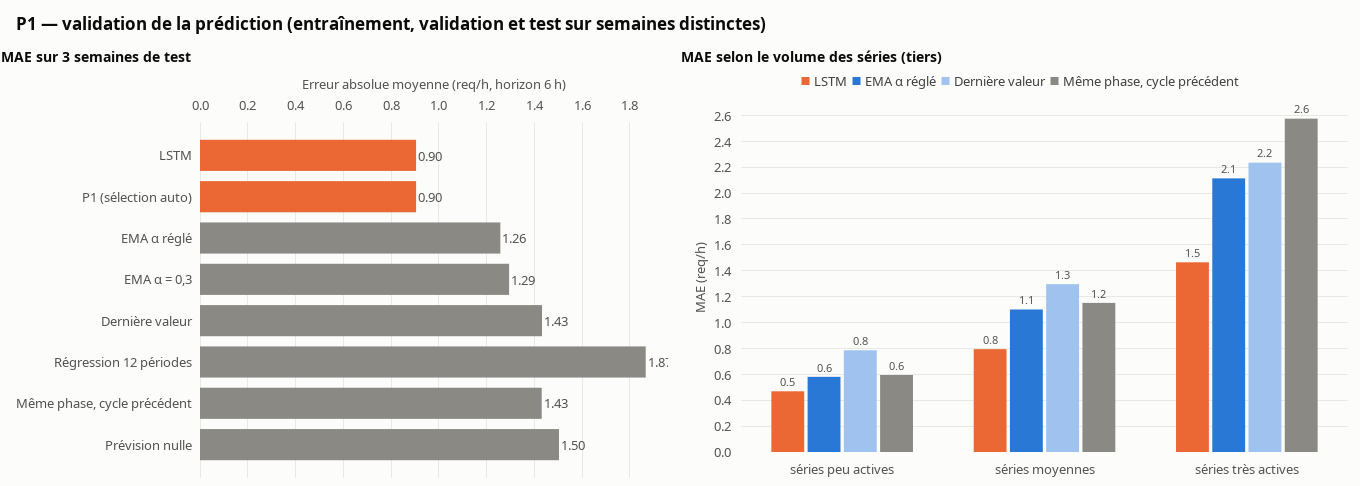
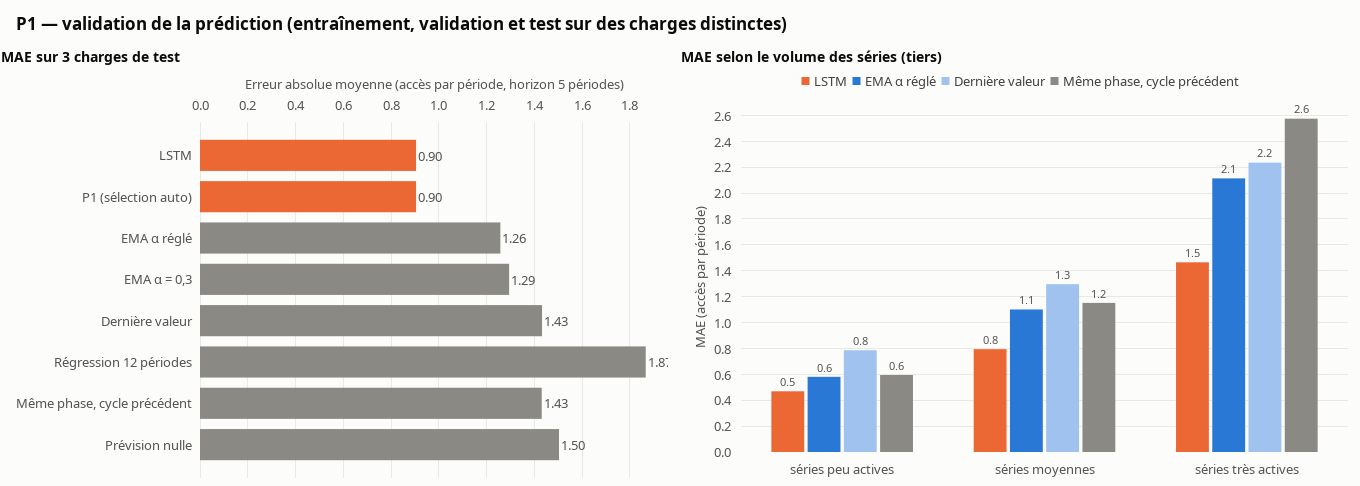
validation P1

diff --git a/tcdrm-cloudsim/src/main/java/fr/tcdrm/charts/Charts.java b/tcdrm-cloudsim/src/main/java/fr/tcdrm/charts/Charts.java
@@ -327,8 +327,8 @@ public final class Charts {
             names.add((String) m.get("method"));
         }
         JFreeChart a = org.jfree.chart.ChartFactory.createBarChart(null, null,
-                "Erreur absolue moyenne (req/h, horizon 6 h)", ds, PlotOrientation.HORIZONTAL, false, false, false);
-        styleCategory(a, "MAE sur 3 semaines de test");
+                "Erreur absolue moyenne (accès par période, horizon 5 périodes)", ds, PlotOrientation.HORIZONTAL, false, false, false);
+        styleCategory(a, "MAE sur 3 charges de test");
         BarRenderer br = new BarRenderer() {
             @Override
             public java.awt.Paint getItemPaint(int row, int column) {
@@ -357,8 +357,7 @@ public final class Charts {
                 for (String[] t : tiers) vt.addValue((Double) m.get(t[0]), k, t[1]);
             }
         }
-        JFreeChart b = org.jfree.chart.ChartFactory.createBarChart(null, null, "MAE (req/h)", vt,
-                PlotOrientation.VERTICAL, true, false, false);
+        JFreeChart b = org.jfree.chart.ChartFactory.createBarChart(null, null, "MAE (accès par période)", vt, PlotOrientation.VERTICAL, true, false, false);
         styleCategory(b, "MAE selon le volume des séries (tiers)");
         BarRenderer r2 = (BarRenderer) b.getCategoryPlot().getRenderer();
         r2.setSeriesPaint(0, COL.get("TCDRM-Predictive"));
@@ -370,7 +369,7 @@ public final class Charts {
         r2.setDefaultItemLabelsVisible(true);
         r2.setDefaultItemLabelFont(new Font("SansSerif", Font.PLAIN, 11));
         r2.setDefaultItemLabelPaint(INK2);
-        compose("p1_validation", "P1 — validation de la prédiction (entraînement, validation et test sur semaines distinctes)",
+        compose("p1_validation", "P1 — validation de la prédiction (entraînement, validation et test sur des charges distinctes)",
                 2, img(a, 680, 440), img(b, 680, 440));
     }
 

diff --git a/tcdrm-cloudsim/src/main/java/fr/tcdrm/Main.java b/tcdrm-cloudsim/src/main/java/fr/tcdrm/Main.java
@@ -64,7 +64,7 @@ public final class Main {
                 "scenario");
 
         // P1
-        System.out.println("P1 : protocole de validation (entraînement / validation / test sur semaines distinctes)");
+        System.out.println("P1 : protocole de validation (entraînement / validation / test sur des charges distinctes)");
         ForecastValidation fv = new ForecastValidation(c);
         fv.run();
         Lstm lstm = fv.best;

diff --git a/README.md b/README.md
@@ -12,11 +12,11 @@ Sujet 2 (TCDRM-Predictive : P1 → P3 → P2) sur CloudSim 7.0.1.
 ## Lancer
 
 ```bash
-mvn -q compile exec:java                 # ~2 min ; écrit results/ et figures/
-mvn -q compile exec:java -Dexec.args=out # dossier de sortie au choix
+mvn -q compile exec:java                
+mvn -q compile exec:java -Dexec.args=out
 ```
 
-Pour changer un paramètre sans recompiler : copier `src/main/resources/tcdrm.properties`,
+Pour changer un paramètre sans recompiler : copier `tcdrm-cloudsim/src/main/resources/tcdrm.properties`,
 le modifier, puis `mvn -q exec:java -Dtcdrm.config=mon.properties`.
 
 Si `org.cloudbus.cloudsim:cloudsim:7.0.1` n'est pas résolu par votre dépôt Maven,
